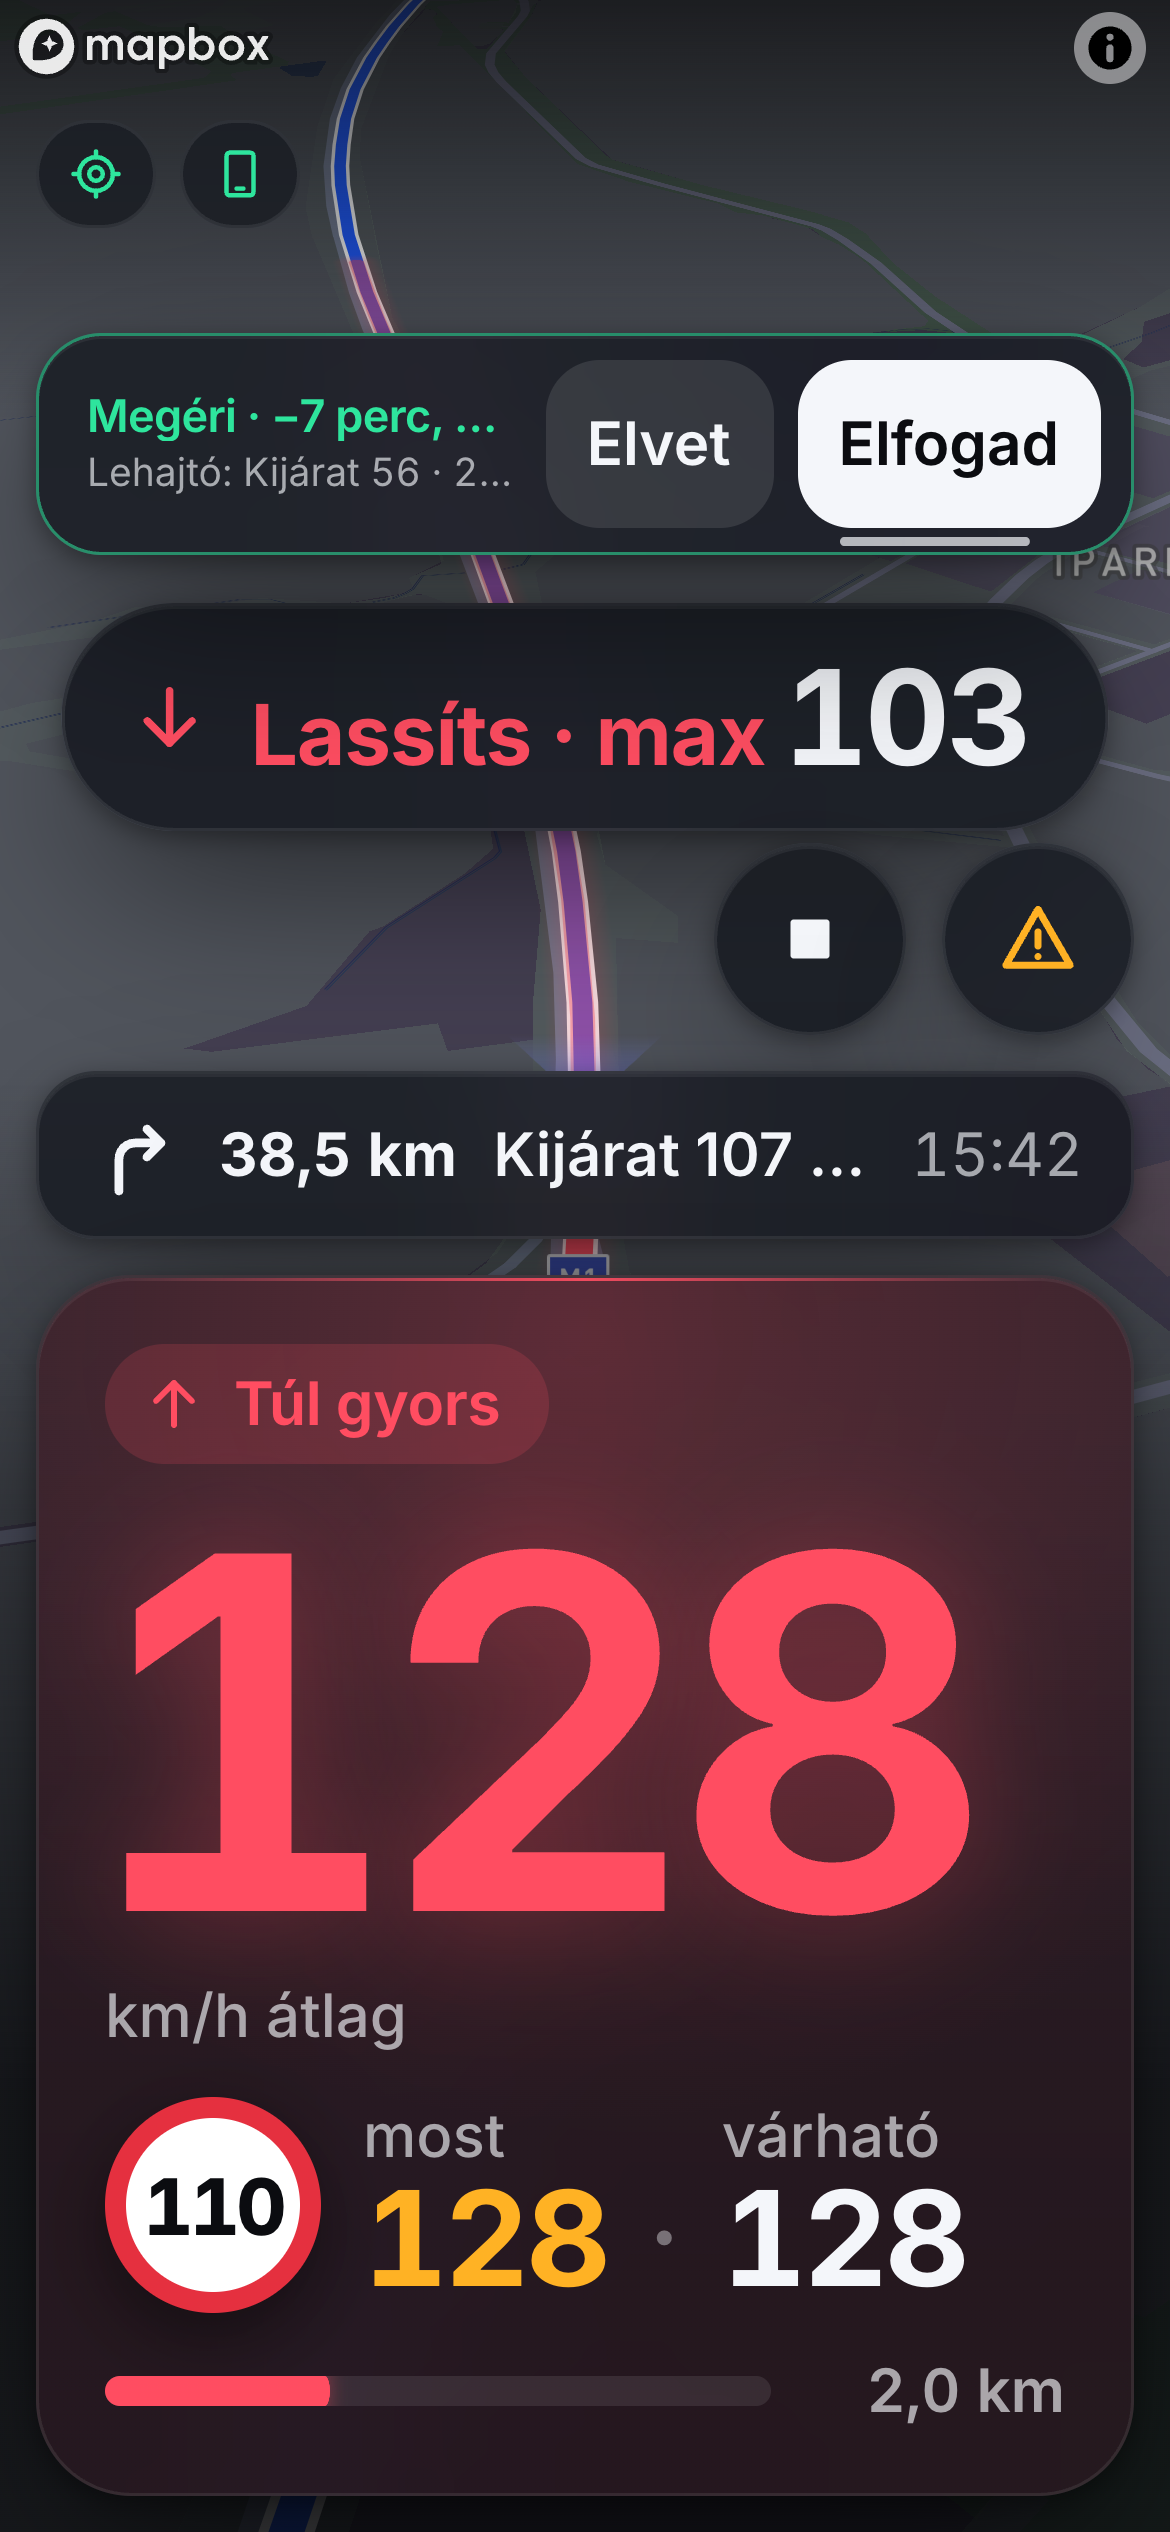
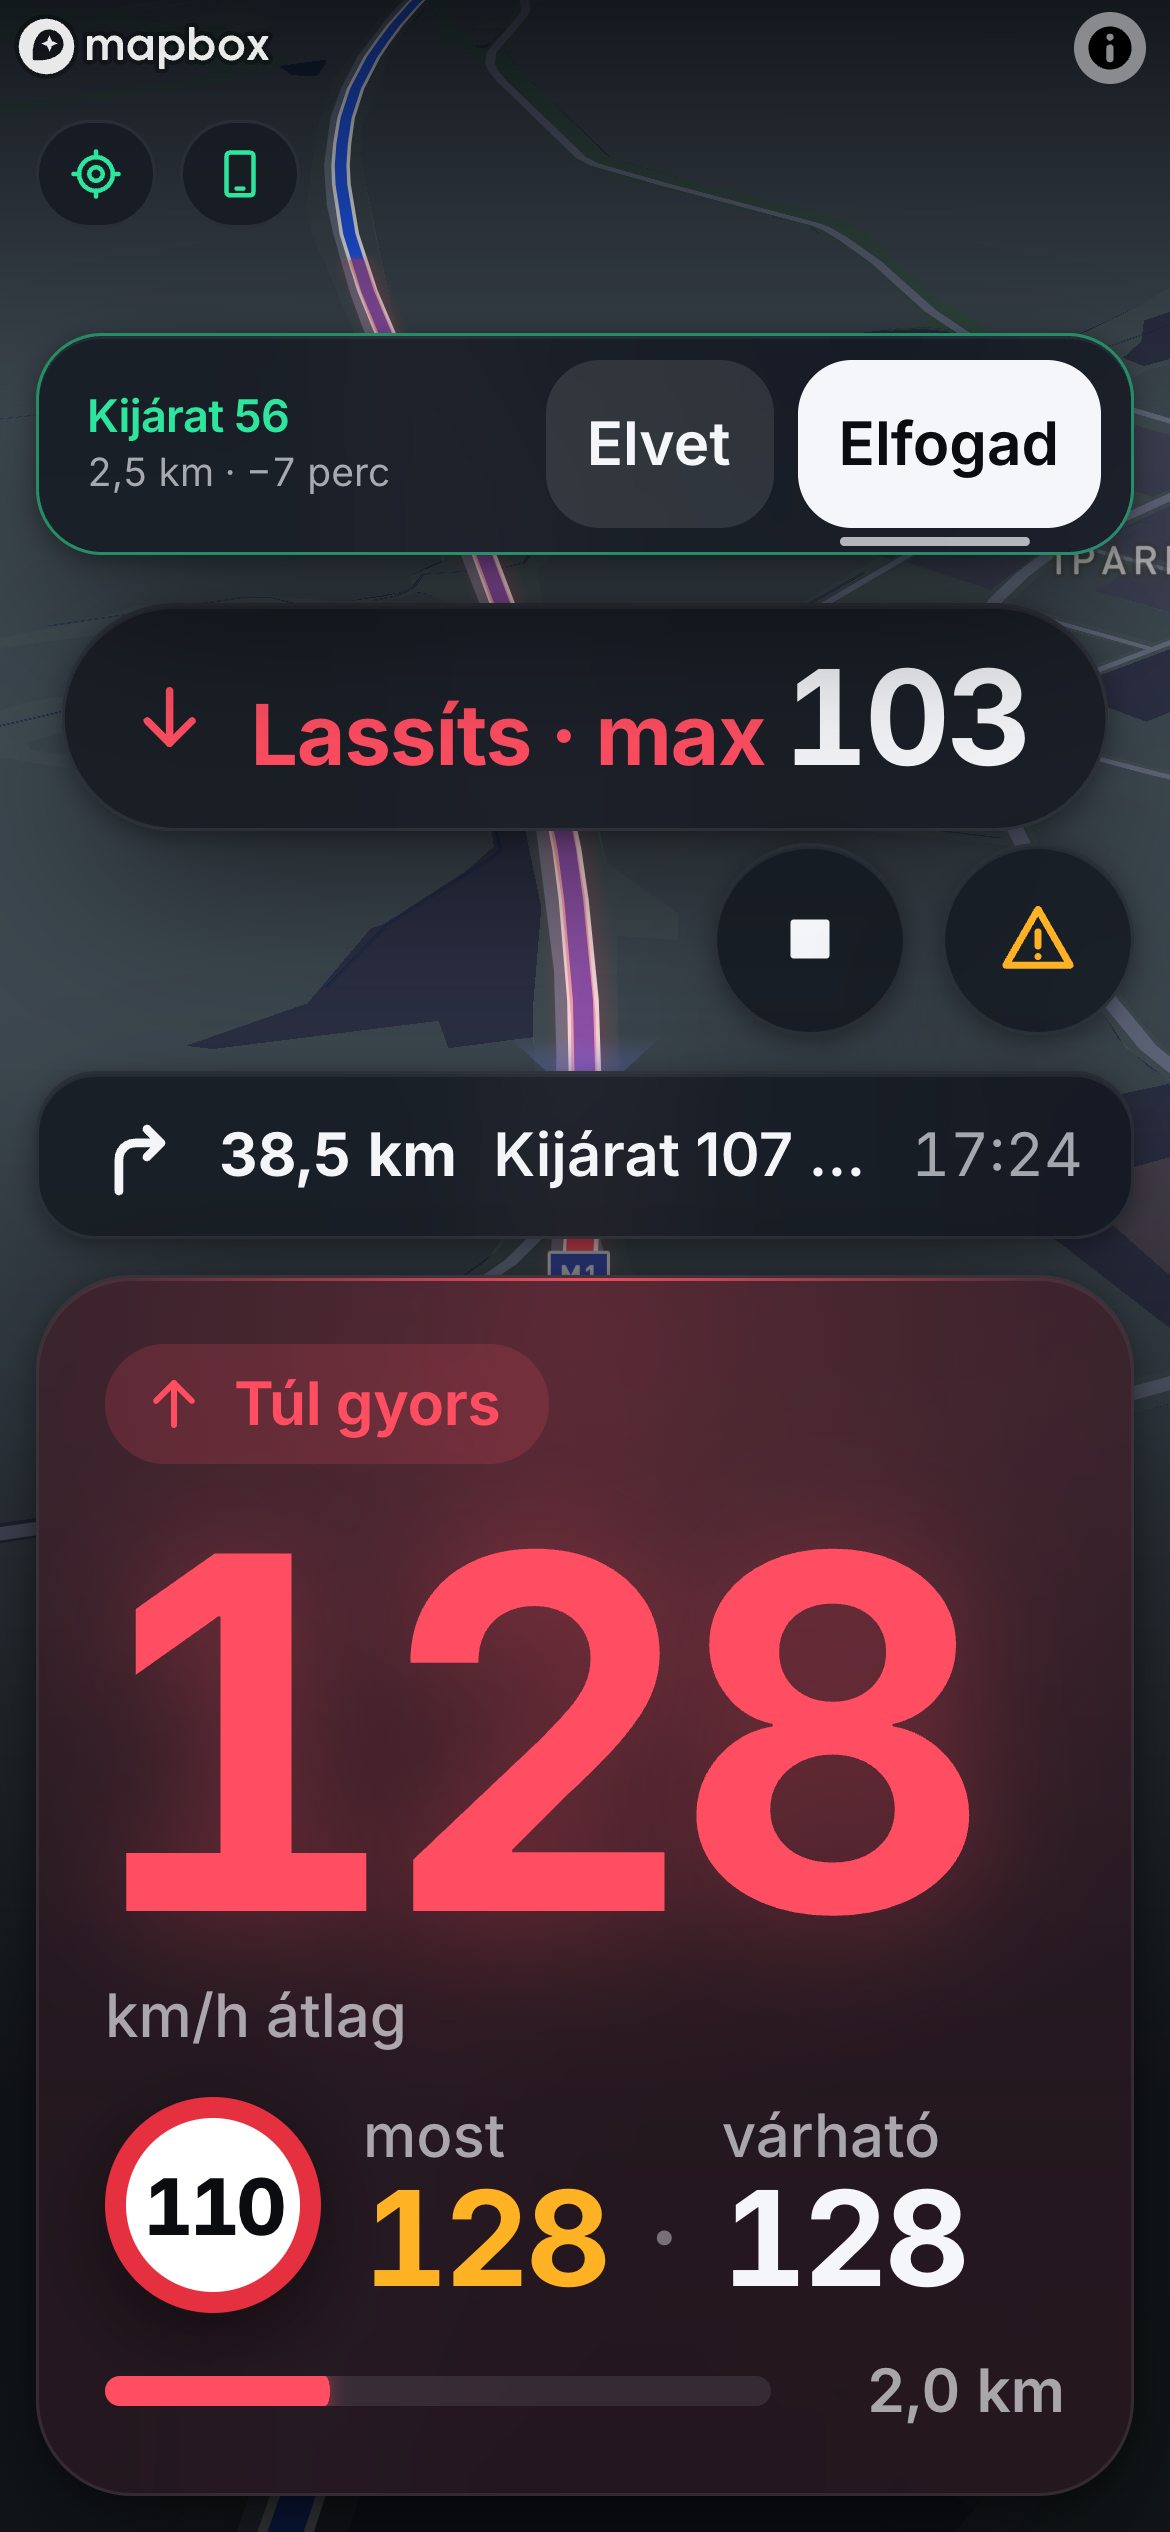
AW13: kétsoros kompakt ajánlat, nav.voice.fasterExit törölve
- app-logic: altOfferCompactLines – „Kijárat 56” / „2,1 km · −7 perc”
  (nav.offer.compactDetail, 6 nyelv); név nélkül „Lehajtó 2,1 km-nél” / „−7 perc”,
  ismeretlen lehajtónál a cím
- web: a kompakt kártya ezt a két sort mutatja; nav-shots: kétsoros és 390 px-en
  sincs levágott sor
- a nem használt nav.voice.fasterExit törölve a szótárból; az iOS-bemondás a
  nav.voice.fasterWorthExit-re állt, generált fájlok újra
- CLAUDE.md: az AOS-portnak a kétsoros kompakt kártya

diff --git a/apps/web/src/ui/NavHud.tsx b/apps/web/src/ui/NavHud.tsx
@@ -1,4 +1,4 @@
-import { formatClock, formatDistance, formatTripDuration, speedIn, t, unitLabel, type AlternativeOffer, type NavView, type SpeedUnit } from '@atlagsebesseg/app-logic';
+import { altOfferCompactLines, formatClock, formatDistance, formatTripDuration, speedIn, t, unitLabel, type AlternativeOffer, type NavView, type SpeedUnit } from '@atlagsebesseg/app-logic';
 import { Icon } from './Icon';
 import { ManeuverIcon } from './ManeuverIcon';
 
@@ -131,7 +131,7 @@ const exitLine = (o: AlternativeOffer): string | null =>
 /**
  * Felugró ajánlat (AW12): „Megéri · −7 perc, +4 km” / „Lehet · −2 perc, +1 km” / „Nem éri meg · +20 km kerülő, −10 perc”,
  * alatta a lehajtó; Elfogad / Elvet (56 px-es gombok). A kiemelt gomb az, ami 45 s után magától történik; alatta vékony,
- * fogyó csík mutatja a hátralévő időt, szám nélkül (AW13).
+ * fogyó csík mutatja a hátralévő időt, szám nélkül (AW13). Mérés közben kompakt, kétsoros: „Kijárat 56” / „2,1 km · −7 perc”.
  */
 export function OfferCard({ offer, onAccept, onDecline }: { offer: AlternativeOffer; onAccept: () => void; onDecline: () => void }) {
   const exit = exitLine(offer);
@@ -155,14 +155,19 @@ export function OfferCard({ offer, onAccept, onDecline }: { offer: AlternativeOf
       {exit && <div className="nav-offer-exit num">{exit}</div>}
     </div>
   );
-  // mérés közben: kompakt, a mérőkártya (státusz) fölött
-  if (offer.compact)
+  // mérés közben: kompakt, a mérőkártya (státusz) fölött, két sorban: „Kijárat 56” / „2,1 km · −7 perc”
+  if (offer.compact) {
+    const [line1, line2] = altOfferCompactLines(offer);
     return (
       <section className="nav-offer nav-offer-compact glass" data-verdict={offer.verdict} role="alertdialog" aria-label={offer.title}>
-        {head}
+        <div className="nav-offer-head">
+          <div className="title nav-offer-title">{line1}</div>
+          {line2 && <div className="nav-offer-exit num">{line2}</div>}
+        </div>
         {buttons}
       </section>
     );
+  }
   return (
     <section className="nav-offer glass" data-verdict={offer.verdict} role="alertdialog" aria-label={offer.title}>
       {head}

diff --git a/packages/app-logic/test/navigation.test.ts b/packages/app-logic/test/navigation.test.ts
@@ -9,6 +9,7 @@ import {
   addSavedOther,
   adjustedDurations,
   ALT_OFFER,
+  altOfferCompactLines,
   altOfferTitle,
   altOfferVoice,
   altWorth,
@@ -1214,6 +1215,22 @@ describe('AW13: „megéri” bemondás a lehajtóval', () => {
       expect(text, lang).toMatch(/7/);
       expect(text, lang).toContain('5,2');
       expect(text, lang).not.toMatch(/[{}]/);
+    }
+  });
+});
+
+describe('AW13: kétsoros kompakt ajánlat', () => {
+  it('„Kijárat 56” / „2,1 km · −7 perc”; név nélkül „Lehajtó 2,1 km-nél” / „−7 perc”; ismeretlen lehajtónál a cím', () => {
+    const o = { title: 'Megéri · −7 perc, +4 km', gainS: 7 * 60 + 10, exitAlongM: 12_000, exitName: 'Kijárat 56', exitKm: '2,1' };
+    expect(altOfferCompactLines(o)).toEqual(['Kijárat 56', '2,1 km · −7 perc']);
+    expect(altOfferCompactLines({ ...o, exitName: null })).toEqual(['Lehajtó 2,1 km-nél', '−7 perc']);
+    expect(altOfferCompactLines({ ...o, exitName: '' })).toEqual(['Lehajtó 2,1 km-nél', '−7 perc']);
+    expect(altOfferCompactLines({ ...o, exitAlongM: null })).toEqual(['Megéri · −7 perc, +4 km', null]);
+    expect(altOfferCompactLines({ ...o, gainS: 20 })[1]).toBe('2,1 km · −1 perc');
+    for (const lang of LANGUAGES) {
+      setLanguage(lang);
+      const [, detail] = altOfferCompactLines(o);
+      expect(detail, lang).toMatch(/^2,1 km · −7 \S+$/);
     }
   });
 });

diff --git a/packages/app-logic/src/navigation/alternatives.ts b/packages/app-logic/src/navigation/alternatives.ts
@@ -120,6 +120,23 @@ export function altOfferTitle(w: Pick<AltWorth, 'gainMin' | 'extraKm' | 'verdict
 }
 
 /**
+ * A kompakt (mérés közbeni) ajánlat két sora: „Kijárat 56” / „2,1 km · −7 perc”; név nélküli lehajtónál „Lehajtó 2,1
+ * km-nél” / „−7 perc”, ismeretlen lehajtónál csak a cím. `exitKm`: a lehajtóig hátralévő táv a nyelv tizedesjelével.
+ */
+export function altOfferCompactLines(o: {
+  title: string;
+  gainS: number;
+  exitAlongM: number | null;
+  exitName: string | null;
+  exitKm: string;
+}): [string, string | null] {
+  const n = Math.max(1, Math.round(o.gainS / 60));
+  if (o.exitAlongM === null) return [o.title, null];
+  if (!o.exitName) return [t('nav.offer.exitAt', { km: o.exitKm }), t('nav.alt.faster', { n })];
+  return [o.exitName, t('nav.offer.compactDetail', { km: o.exitKm, n })];
+}
+
+/**
  * A bemondás: „Gyorsabb út, 7 perc megtakarítás, lehajtó 5,2 kilométernél” (megéri; ismeretlen lehajtónál a lehajtó
  * nélkül) / „…, 2 perc, 1 kilométer kerülő, te döntesz” / „…, de nem éri meg, 20 kilométer kerülő”. `exitKm`: a lehajtóig
  * hátralévő táv a nyelv tizedesjelével.

diff --git a/apps/ios/Atlagsebesseg/Navigation/NavigationSession.swift b/apps/ios/Atlagsebesseg/Navigation/NavigationSession.swift
@@ -386,7 +386,8 @@ final class NavigationSession {
         // a második (500 m-es) bemondás fölösleges, ha az első is 600 m-en belül hangzik el
         exit500For = best.exitAlongM.map { $0 - along <= 600 } == true ? o.id : nil
         if let x = best.exitAlongM {
-            say(.faster, t(.navVoiceFasterExit, ["km": exitKm(x - along)], lang: lang))
+            // AW13: „Gyorsabb út, {n} perc megtakarítás, lehajtó {km} kilométernél” (a régi `nav.voice.fasterExit` törölve)
+            say(.faster, t(.navVoiceFasterWorthExit, ["n": "\(wholeMinutes(best.gainS))", "km": exitKm(x - along)], lang: lang))
         } else {
             say(.faster, t(.navVoiceFaster, ["n": "\(wholeMinutes(best.gainS))"], lang: lang))
         }

diff --git a/CLAUDE.md b/CLAUDE.md
@@ -105,6 +105,9 @@ Gyökér: `npm test` és `npm run typecheck` minden csomagra; `npm run test:all`
     mérés végén jelenik meg). Ugyanez érvényes, ha már látható ajánlat mellett kezdődik mérés: 1 km-en belül → marad
     (kompakt), azon túl → visszatartva. Kézi mérésnél nincs végkapu → visszatartva. (`NavigationSession.exitNearSectionEnd`.)
   - A kiemelt (45 s után magától történő) gomb alatt vékony, fogyó csík, szám nélkül: `AlternativeOffer.timeLeft` (1 → 0).
+  - A kompakt (mérés közbeni) kártya **kétsoros**, 390 px-en sem vágódik le: „Kijárat 56” / „2,1 km · −7 perc”
+    (`altOfferCompactLines`, `nav.offer.compactDetail`); név nélküli lehajtónál „Lehajtó 2,1 km-nél” / „−7 perc”,
+    ismeretlen lehajtónál a cím egy sorban. A kategória a sor színéből látszik.
   - „Megéri” bemondás a lehajtóval: `nav.voice.fasterWorthExit` („Gyorsabb út, {n} perc megtakarítás, lehajtó {km}
     kilométernél”, a km a lehajtóig, egy tizedessel); ismeretlen lehajtónál a régi `nav.voice.faster`. A „Lehet” és a
     „Nem éri meg” szövege nem változott.
